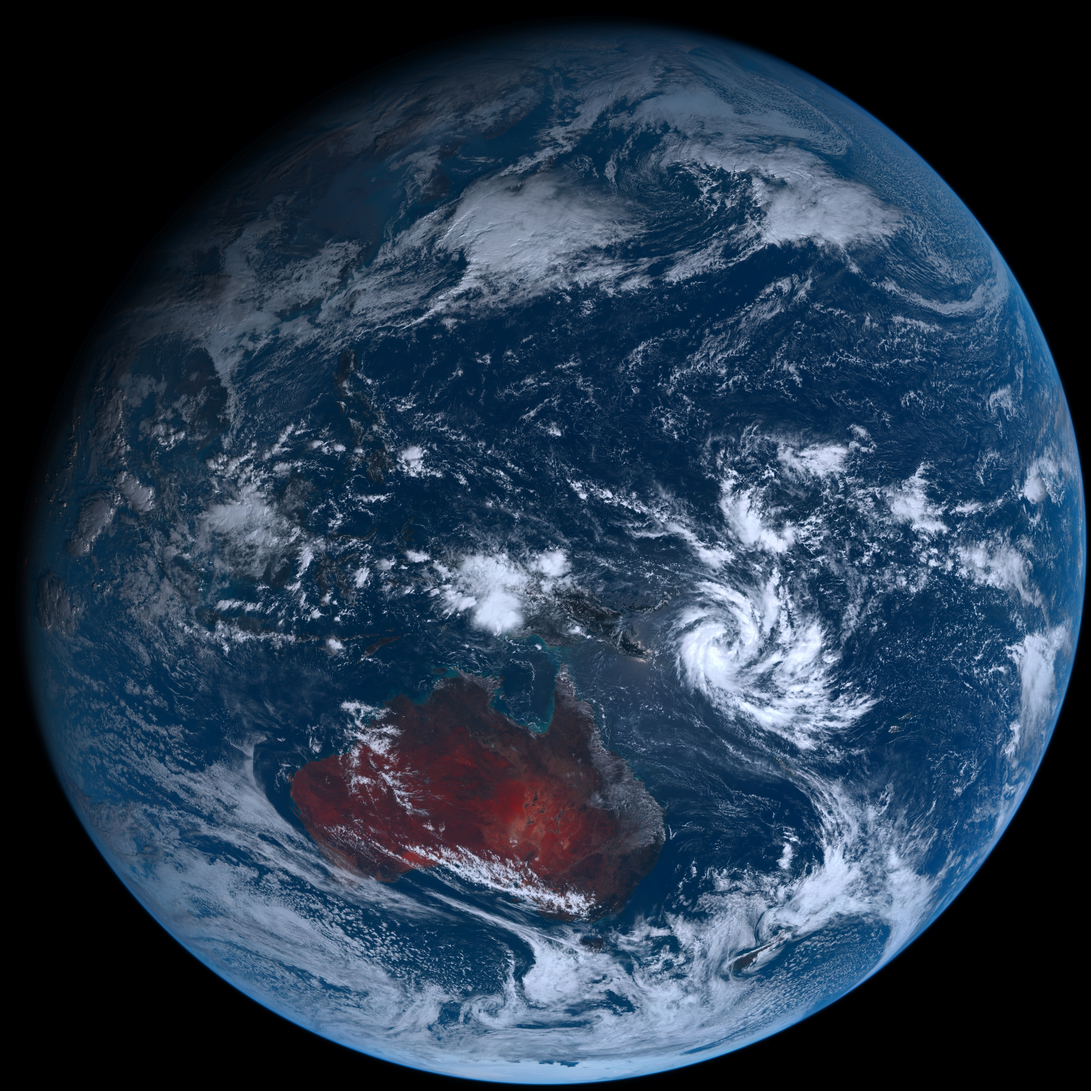
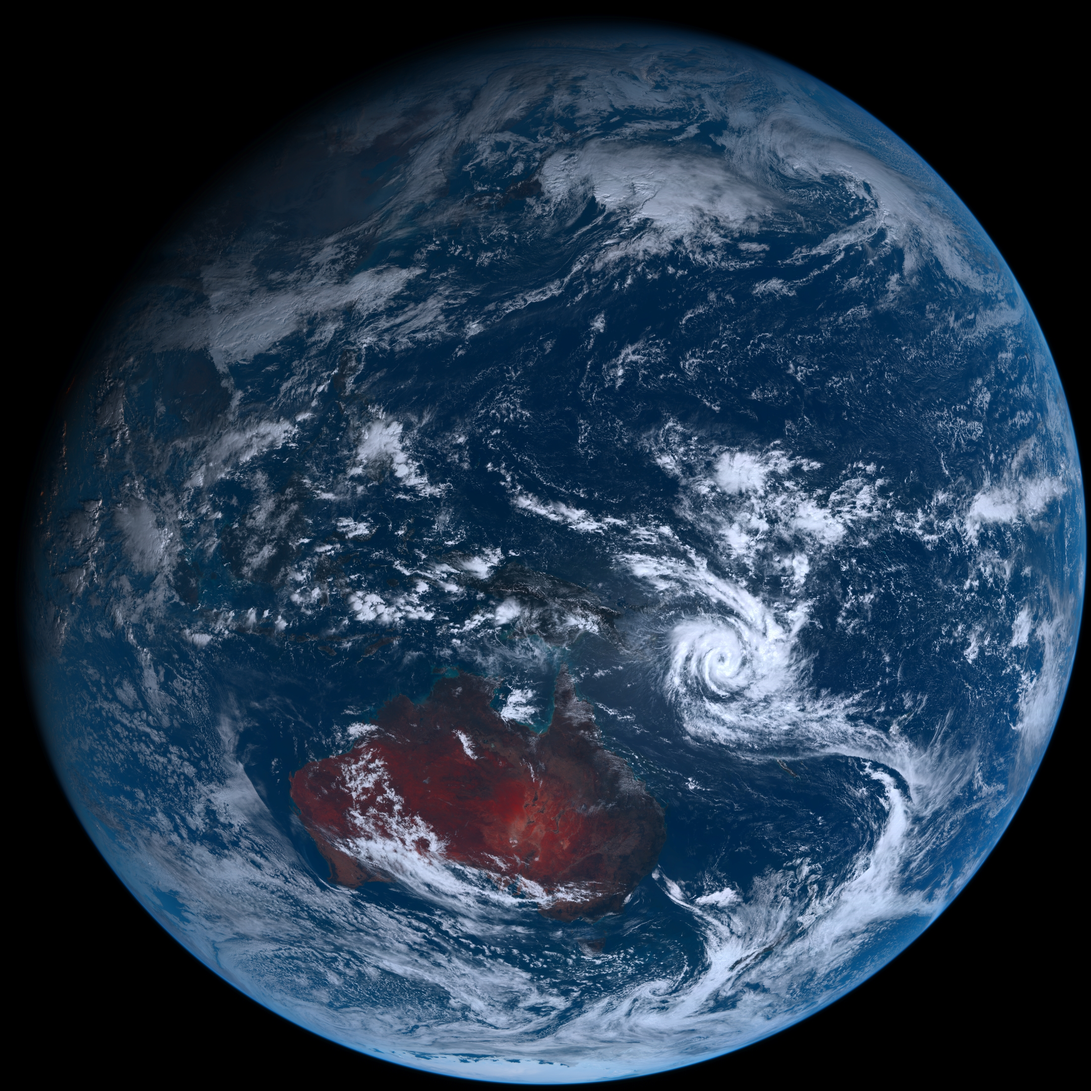
Wednesday 12/06/2023 03:09 +00

diff --git a/README.md b/README.md
@@ -1,12 +1,12 @@
 # ps1
 
 - ### [BingWallpaper](https://github.com/milankomaj/ps1/wiki/BingWallpaper)  [![Generate Wallpapers Github README.md](https://github.com/milankomaj/ps1/actions/workflows/GenWall.yml/badge.svg?event=schedule)](https://github.com/milankomaj/ps1/actions/workflows/GenWall.yml)
-- ##### Tuesday 05/12/2023 03:08:40 +00
+- ##### Wednesday 06/12/2023 03:08:32 +00
 <img src="BingWallpaper/latest.jpg" width="700" height="auto" title="👉  BingWallpaper  👈">
-Neuschwanstein and Hohenschwangau Castles, Bavarian Alps, Germany (© Harald Nachtmann/Getty Images)
+The Globe of Science and Innovation building, Meyrin, Switzerland (© Deyan Baric/Alamy)
 
 - ### [Himawari](https://github.com/milankomaj/ps1/wiki/Himawari) [![Generate Wallpapers Github README.md](https://github.com/milankomaj/ps1/actions/workflows/GenWall.yml/badge.svg?event=schedule)](https://github.com/milankomaj/ps1/actions/workflows/GenWall.yml) [![Video](https://github.com/milankomaj/ps1/actions/workflows/video.yml/badge.svg?event=schedule)](https://github.com/milankomaj/ps1/actions/workflows/video.yml)
-- ##### Tuesday 05/12/2023 03:09:14 +00
+- ##### Wednesday 06/12/2023 03:09:07 +00
 <img src="Himawari/latest.jpg" width="auto" height="371" title="👉  Himawari  👈"> <img src="Himawari/pifd/himawari_pifd.webp" width="auto" height="371"/>
 
 
